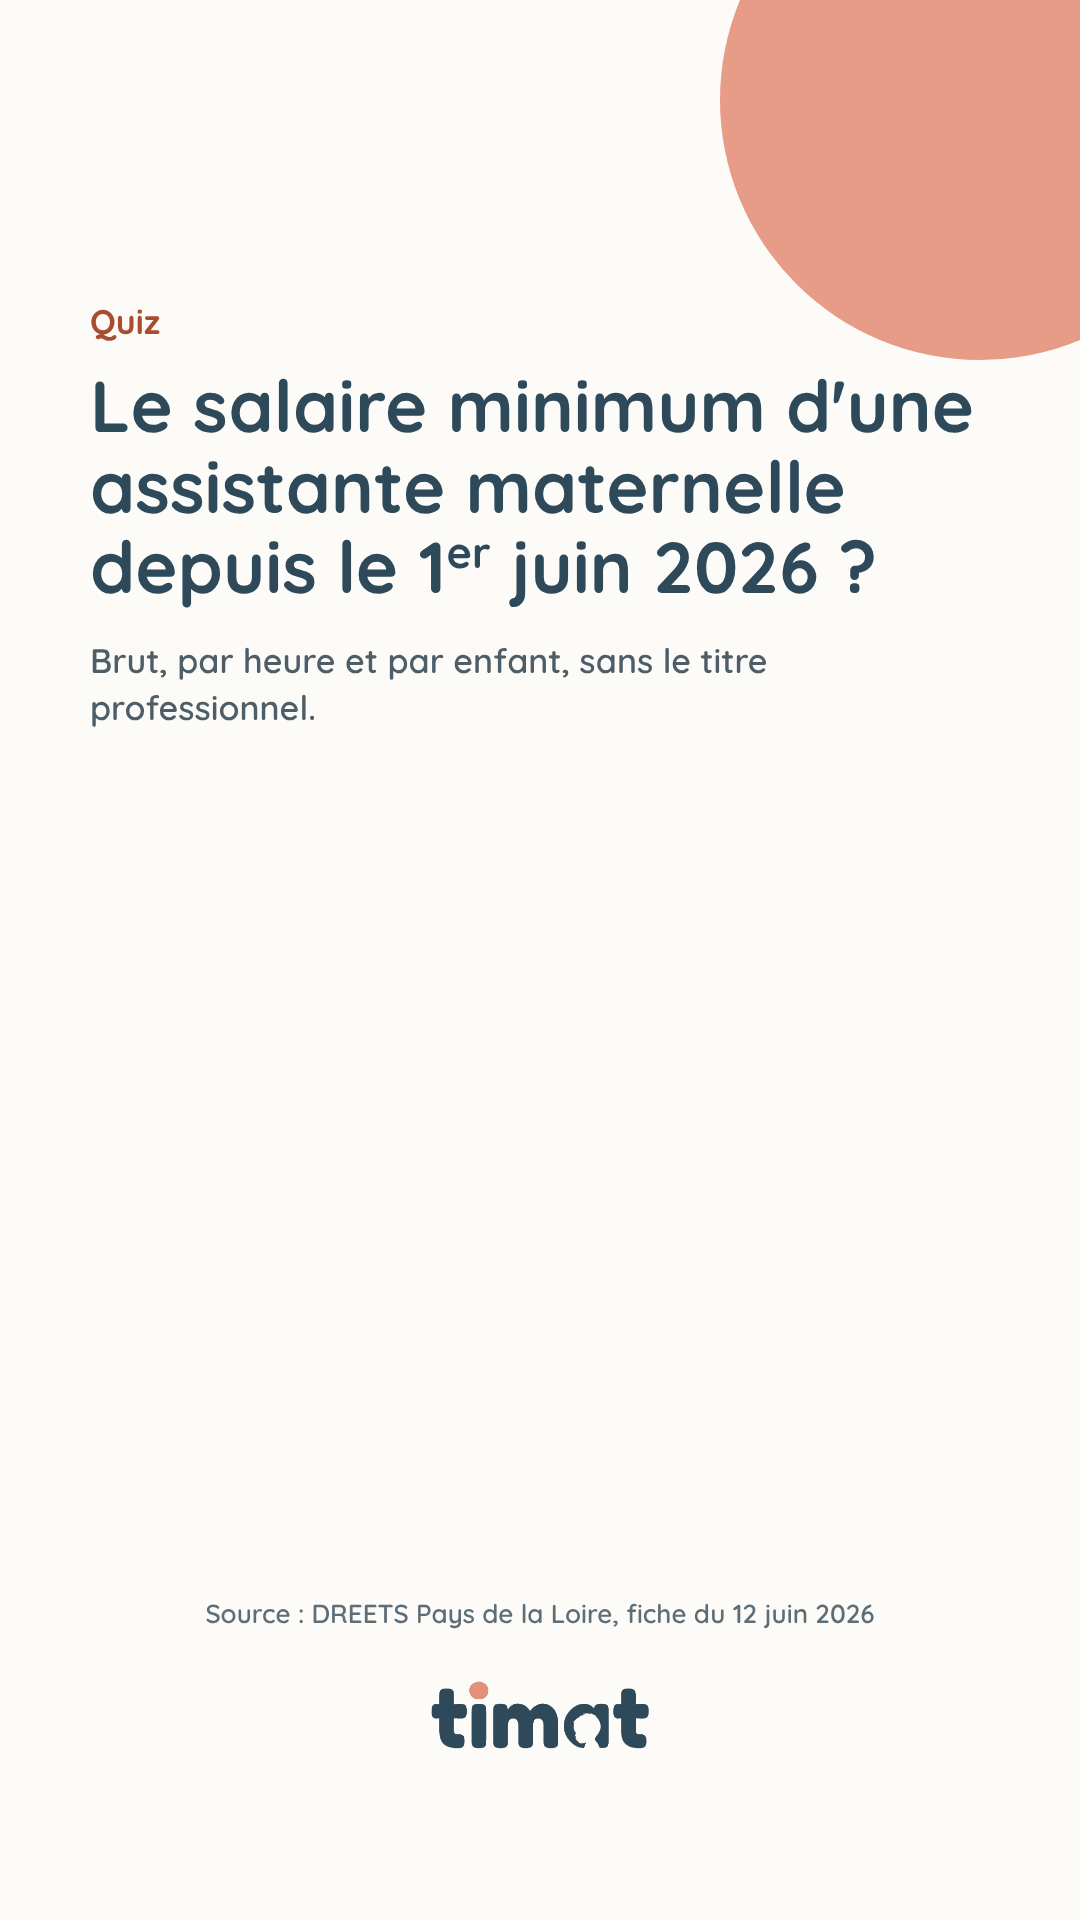
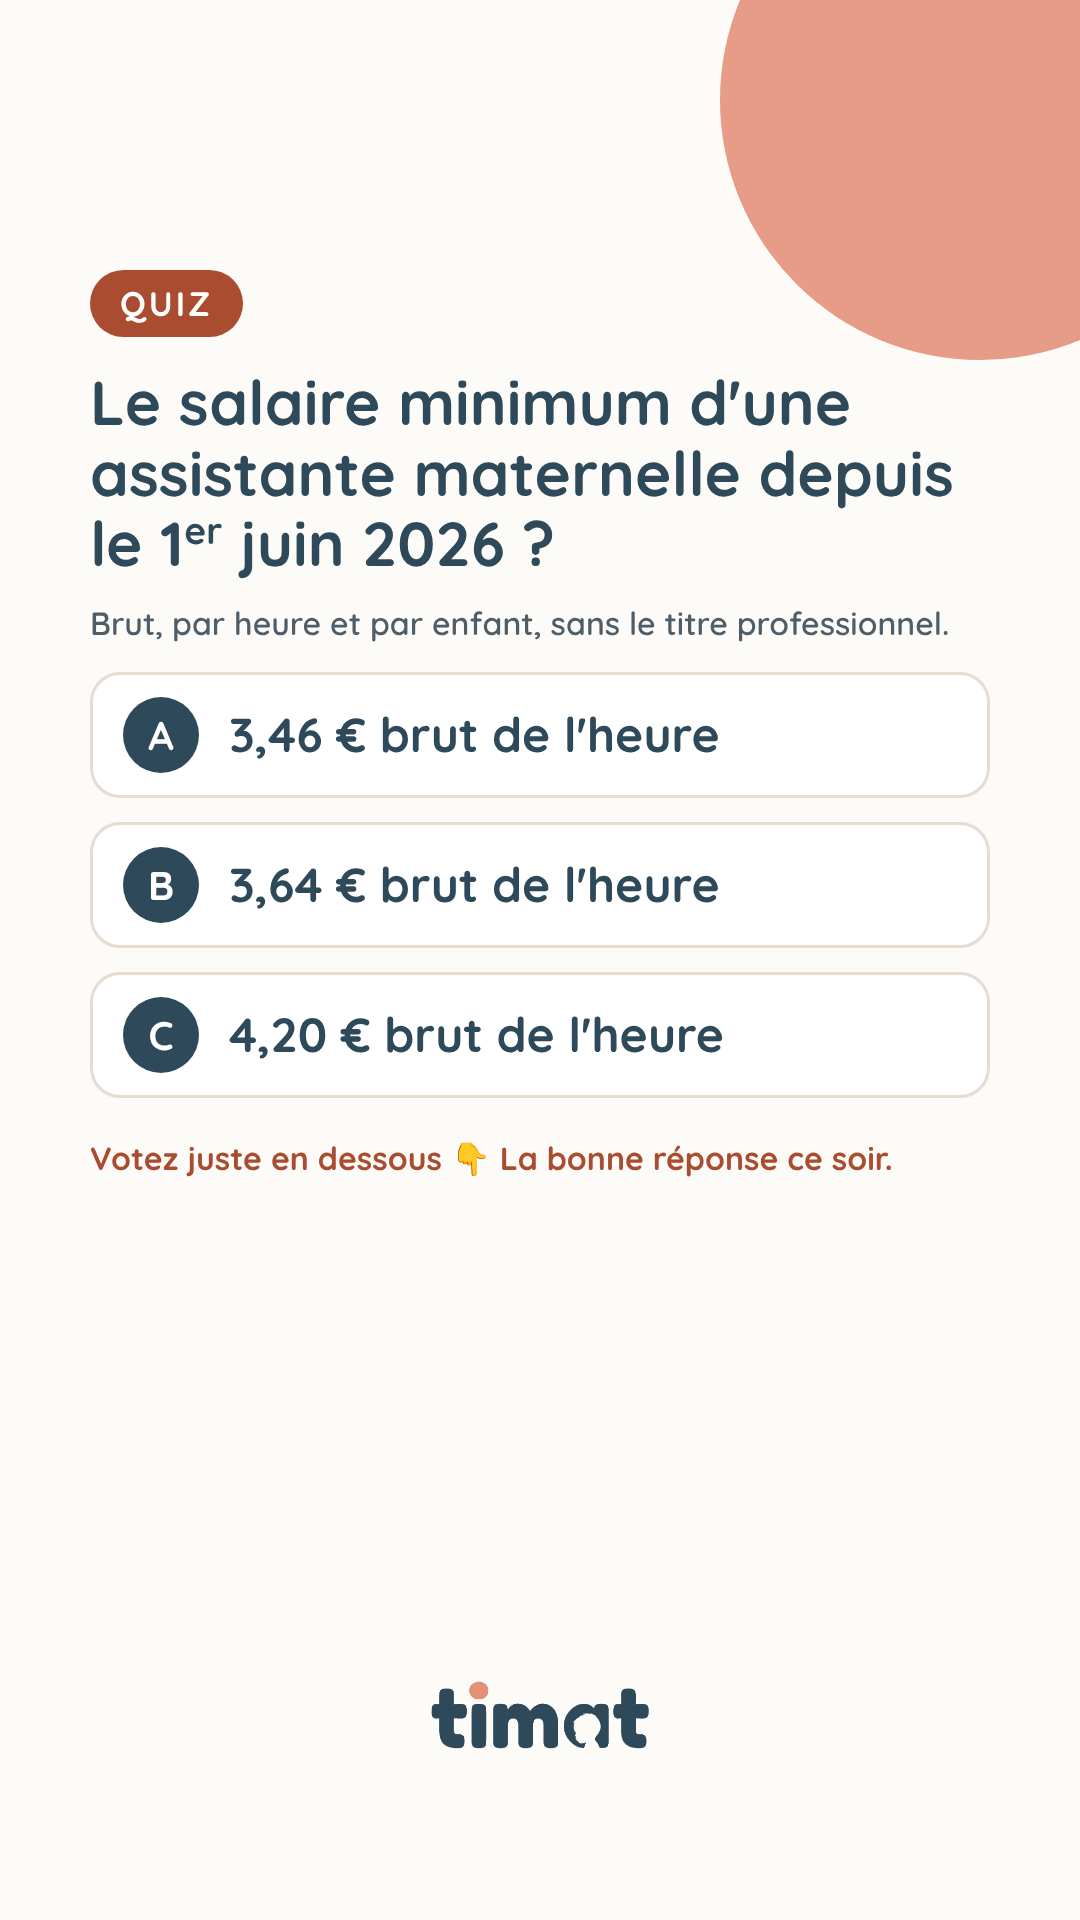
Familiarisation, quiz avec la bonne réponse en vert, passation (#294)
La puéricultrice de PMI a dit à Sophie que l'on parle désormais de période
de familiarisation. C'est exact : le référentiel national de la qualité
d'accueil du jeune enfant (avril 2025, p. 16-17) préfère ce mot, refuse le
protocole rigide et la présence progressive « 1 heure puis un repas ».
- Projet d'accueil imprimé : « Période de familiarisation », sans le
  protocole « Jour 1 : 1 h avec le parent… » qu'il proposait.
- Contrat imprimé : la convention garde « période d'adaptation »
  (art. 94), la clause dit « dite aussi période de familiarisation » et ne
  calcule plus le salaire « sur les heures réellement effectuées » : les
  heures non faites se déduisent du salaire mensualisé (art. 108.1 et 111,
  DREETS BFC fiche 1). DOCUMENTS_REFONTE et l'empreinte avancent ensemble.
- Barrière d'audit sur les deux textes, prouvée en cassant le code.

Stories : le compte de Sophie n'a pas l'autocollant Quiz et elle veut
« comme un quiz avec la bonne réponse en vert ». Les images 27, 29, 40, 42
dessinent les réponses A, B, C ; les réponses du soir (55 à 58, 58 nouvelle
pour le préavis) montrent la bonne en vert avec une coche. Kit à jour.

Passation : indexations faites, commentaire G7 posté, stories programmées
jusqu'au 6/11 (Meta refuse au-delà en version gratuite), brouillons Sanity
en attente d'accord. Règles ajoutées à CLAUDE.md.

Claude-Session: https://claude.ai/code/session_01JVfHnHqQqeEKwpYvot8sHP

diff --git a/src/App.jsx b/src/App.jsx
@@ -2731,7 +2731,7 @@ function AccueilParent({enfant,setPage,user}){
 export const BILANS={
   "e1":[
     "Ce matin, Léo est arrivé les yeux encore un peu lourds de sommeil, mais le sourire n'a pas tardé à illuminer son visage. Nous avons commencé la journée en douceur avec quelques livres imagiers, et très vite son entrain habituel est revenu. L'activité peinture de l'après-midi a été un vrai moment de magie - il a trempé ses petits doigts dans le rouge et le jaune avec une concentration et une fierté visibles.\n\nLe repas de midi s'est très bien passé : Léo a tout mangé sans hésitation, ce qui est toujours un plaisir à observer. Sa sieste a duré 1h30, un sommeil profond et réparateur. Au réveil, il était de nouveau rayonnant, prêt à profiter du goûter et des jeux du soir.\n\nEn fin de journée, j'ai remarqué comme Léo cherche de plus en plus à communiquer avec les mots - il pointe, nomme, demande. C'est un plaisir de l'accompagner dans cet éveil du langage. Bonne soirée à vous !",
-    "La journée de Léo a débuté sur une note douce et apaisée. Il est entré dans la maison en tenant fermement son doudou, signe qu'une petite période d'adaptation était nécessaire ce matin. Mais en quelques minutes, il s'est élancé vers les jouets avec son enthousiasme caractéristique.\n\nNous avons beaucoup joué dehors avant le déjeuner - Léo adore observer les fourmis et les feuilles qui tombent. Son repas a été excellent, et sa sieste longue et paisible. L'après-midi, nous avons planté des radis ensemble : il a tenu la petite graine avec soin et l'a déposée dans la terre avec une attention touchante.\n\nLéo est un enfant curieux et plein de vie. Chaque journée avec lui est une nouvelle aventure. Je suis fière des progrès qu'il fait semaine après semaine. À demain !",
+    "La journée de Léo a débuté sur une note douce et apaisée. Il est entré dans la maison en tenant fermement son doudou, signe qu'il lui fallait un petit temps de transition ce matin. Mais en quelques minutes, il s'est élancé vers les jouets avec son enthousiasme caractéristique.\n\nNous avons beaucoup joué dehors avant le déjeuner - Léo adore observer les fourmis et les feuilles qui tombent. Son repas a été excellent, et sa sieste longue et paisible. L'après-midi, nous avons planté des radis ensemble : il a tenu la petite graine avec soin et l'a déposée dans la terre avec une attention touchante.\n\nLéo est un enfant curieux et plein de vie. Chaque journée avec lui est une nouvelle aventure. Je suis fière des progrès qu'il fait semaine après semaine. À demain !",
   ],
   "e2":[
     "Emma a débarqué ce matin avec une énergie débordante et un grand sourire - elle avait visiblement hâte de retrouver ses jouets préférés. Après un câlin rapide, elle s'est installée au coin puzzle avec une belle concentration, finissant un modèle de 12 pièces en moins de dix minutes. Impressionnant !\n\nLe repas a été un peu plus délicat aujourd'hui - Emma avait moins d'appétit que d'habitude, ce qui arrive à tous les enfants. Elle a refusé la sieste mais est restée calme, jouant tranquillement et feuilletant des livres dans son coin doux. Ce moment de repos calme lui a été bénéfique.\n\nEn fin d'après-midi, nous avons fait de la musique avec des instruments de percussion maison. Emma chante de plus en plus juste et son sens du rythme est remarquable pour son âge. C'est un vrai plaisir de l'observer s'épanouir. Belle soirée à vous !",
@@ -3870,7 +3870,7 @@ export const URL_CONVENTION="https://www.legifrance.gouv.fr/conv_coll/id/KALICON
 // A METTRE A JOUR A CHAQUE FOIS QUE LE MODELE D'UN DOCUMENT CHANGE. Une
 // barriere d'audit le verifie : elle garde l'empreinte du modele de contrat et
 // refuse que le modele bouge sans que cette date bouge.
-export const DOCUMENTS_REFONTE="2026-10-26T12:24:40Z";
+export const DOCUMENTS_REFONTE="2026-10-27T12:25:33Z";
 // Le PDF est perime s'il a ete ecrit AVANT la derniere modification du contrat,
 // ou avant la refonte des documents. La premiere comparaison est la vraie :
 // sans elle, une fois le fichier refait le bouton disparaissait pour de bon, et
@@ -3983,7 +3983,7 @@ const jsPDF=await chargerJsPDF();
     R.champ("Premier jour d'accueil",ct.debut?fmtDatePdf(ct.debut):"-");
     R.champ("Durée de la période d'essai",nbJours>0?essaiMois+" mois":A_COMPLETER);
     R.texte("La période d'essai est de deux mois lorsque l'enfant est confié quatre jours calendaires ou plus par semaine, et de trois mois en deçà (convention collective IDCC 3239). Elle court à compter du premier jour d'accueil. Pendant cette période, chacune des parties peut rompre le contrat par écrit, sans motif ni indemnité ; la convention n'impose aucun délai de prévenance.",{taille:8.5});
-    R.texte("Une période d'adaptation de 30 jours calendaires au maximum, destinée à familiariser progressivement l'enfant à son nouveau mode d'accueil, s'ouvre au premier jour de travail effectif. Elle est comprise dans la période d'essai. Ses modalités (jours et horaires progressifs) sont convenues entre les parties ; le salaire y est calculé sur les heures réellement effectuées.",{taille:8.5});
+    R.texte("Une période d'adaptation, dite aussi période de familiarisation, de 30 jours calendaires au maximum, permet à l'enfant, à ses parents et à l'assistante maternelle de faire connaissance. Elle s'ouvre au premier jour de travail effectif et est comprise dans la période d'essai. Ses modalités et les horaires de travail correspondants sont fixés par écrit entre les parties, en fonction des besoins de l'enfant. Les heures non effectuées pendant cette période sont déduites du salaire mensualisé selon la convention collective (articles 108.1 et 111).",{taille:8.5});
 
     R.article(4,"DURÉE ET HORAIRES DE L'ACCUEIL");
     R.champ("Jours d'accueil",jours.length?jours.join(", "):"-");

diff --git a/src/ecrans-secondaires.jsx b/src/ecrans-secondaires.jsx
@@ -1821,14 +1821,10 @@ export function ProjetAccueil({user,role}){
       "<div class='sh'>09  Partenariat avec les parents</div>",
       "<ul><li>Transmissions quotidiennes : repas, sommeil, activités, humeur</li><li>Disponible pour les questions, joignable en cas d'urgence</li><li>Respect mutuel des choix éducatifs</li></ul>",
       f.communicationPerso?"<p>"+f.communicationPerso.replace(/\n/g,"<br/>")+"</p>":"",
-      "<div class='sh'>10  Période d'adaptation</div>",
-      "<p>L'adaptation dure généralement 1 à 2 semaines.</p>",
-      "<table>",
-      "<tr><td style='background:#F0FAF4;padding:8px 14px;font-weight:700;color:#5DA9A1;width:140px;border:1px solid #e0e0e0'>Jour 1</td><td style='padding:8px 14px;border:1px solid #e0e0e0'>1h avec le parent présent</td></tr>",
-      "<tr><td style='background:#F0FAF4;padding:8px 14px;font-weight:700;color:#5DA9A1;width:140px;border:1px solid #e0e0e0'>Jour 2-3</td><td style='padding:8px 14px;border:1px solid #e0e0e0'>1h sans le parent, séparation courte</td></tr>",
-      "<tr><td style='background:#F0FAF4;padding:8px 14px;font-weight:700;color:#5DA9A1;width:140px;border:1px solid #e0e0e0'>Jour 4-5</td><td style='padding:8px 14px;border:1px solid #e0e0e0'>2-3h, premier repas</td></tr>",
-      "<tr><td style='background:#F0FAF4;padding:8px 14px;font-weight:700;color:#5DA9A1;width:140px;border:1px solid #e0e0e0'>Semaine 2</td><td style='padding:8px 14px;border:1px solid #e0e0e0'>Demi-journées puis journées complètes</td></tr>",
-      "</table>",
+      "<div class='sh'>10  Période de familiarisation</div>",
+      "<p>La familiarisation (appelée « période d'adaptation » dans la convention collective) est le temps où votre enfant, vous et moi faisons connaissance. Elle n'a pas de programme fixé à l'avance : elle s'ajuste à votre enfant, à vous et à vos contraintes.</p>",
+      "<ul><li>Vous restez avec votre enfant plusieurs heures, sur plusieurs jours : vous me montrez ses habitudes, je vous montre comment se passent nos journées</li><li>Nous répétons des moments semblables (même lieu, même moment de la journée) plutôt que d'allonger la durée un peu plus chaque jour</li><li>Les premières séparations viennent quand votre enfant et vous êtes prêts</li><li>Nous construisons ensemble son projet d'accueil personnalisé</li><li>Au contrat : 30 jours calendaires au maximum, avec les horaires convenus par écrit</li></ul>",
+      "<p style='font-size:11px;color:#888'>Repères : référentiel national de la qualité d'accueil du jeune enfant (avril 2025) ; convention collective IDCC 3239, article 94.</p>",
       "<div class='sh'>Pour conclure</div>",
       "<p>Ce projet d'accueil est un document vivant. N'hésitez pas à en discuter avec moi à tout moment.</p>",
       f.conclusion?"<p>"+f.conclusion.replace(/\n/g,"<br/>")+"</p>":"",

diff --git a/index.html b/index.html
@@ -182,7 +182,7 @@
         <p>Le salaire minimum, la mensualisation, les congés, la déclaration Pajemploi : les réponses aux questions qui reviennent.</p>
 
         <h2>Ressources pour les assmats</h2>
-        <p>86 guides pratiques gratuits, chacun adossé à ses sources officielles, et des simulateurs sans inscription.</p>
+        <p>87 guides pratiques gratuits, chacun adossé à ses sources officielles, et des simulateurs sans inscription.</p>
 
         <nav aria-label="Ressources">
           <ul>

diff --git a/docs/passation-2026-10-13.md b/docs/passation-2026-10-13.md
@@ -621,9 +621,9 @@ l'écran Fin de contrat.
 - **Indexation du 27/10** : liste de 10 envoyée (toutes en 200), en tête
   d'un long message. Sophie a d'abord écrit « J'ai fait l'indexation jusqu'au
   numéro 10 », puis a RECTIFIÉ : elle ne l'avait pas faite, la liste lui
-  ayant échappé. Liste redonnée seule, en premier, le 27/10 au matin ; ce
-  qu'elle aura fait : à noter ici. Leçon : la liste d'indexation se donne
-  dans un message à part, en premier.
+  ayant échappé. Liste redonnée seule, en premier, le 27/10 au matin :
+  **les 10 indexations sont FAITES** (Sophie, 27/10 après-midi). Leçon : la
+  liste d'indexation se donne dans un message à part, en premier.
 - **Stories refaites le 27/10** à la demande de Sophie (« il y a un espace au
   milieu, qu'est-ce que je dois mettre ? J'aimerais juste repartager les
   publications ») : les images 43 à 54 montrent désormais la publication du
@@ -648,6 +648,59 @@ l'écran Fin de contrat.
   27/11). Règle copiée dans CLAUDE.md.
 - Couverture du brouillon `recu-solde-de-tout-compte-assistante-maternelle` :
   importée dans Sanity et posée (FAIT le 27/10).
+- **G7** : commentaire posté par Sophie sous le sondage du groupe (27/10).
+- **Stories programmées par Sophie** dans Meta Business Suite jusqu'au
+  **6/11 à 20 h 35** ; au-delà, Meta refuse la date. Pas de chiffre officiel
+  trouvé pour la version gratuite ; ce qui est officiel : depuis septembre
+  2026, l'abonnement payant Meta One (offre Advanced, à partir de 49,99 $
+  par mois) vend la programmation des stories jusqu'à 30 jours à l'avance
+  (annonce Meta, about.fb.com, septembre 2026 — page non ouvrable depuis la
+  session, lue par extrait de recherche). Constat : environ 10 jours en
+  gratuit. On ne paie pas : on programme par tranches. Rappel du **1/11**
+  (`trig_016Ufx8g9ArFdo5gaqSmDnv5`) : renvoie les stories 48 à 54 avec les
+  étapes ; Sophie programme jusqu'à la première date refusée et donne la
+  dernière date acceptée ; le rappel suivant se pose 5 jours avant.
+- **Quiz « comme un quiz, bonne réponse en vert »** (Sophie, 27/10) : les
+  images 27, 29, 40, 42 montrent la question et les réponses A, B, C ;
+  autocollant Sondage « A / B / C » sous « Votez juste en dessous » ; le
+  soir, images 55 à 58 (58 = préavis, nouvelle) : même question, bonne
+  réponse en vert avec coche, autres estompées, explication et source.
+  Fonctions `quiz` et `quizReponse` de `generer-visuels.mjs`. Chiffres
+  revérifiés (DREETS BFC juin 2026 : préavis 8 j / 15 j / 1 mois ; 2,5 jours
+  ouvrables par mois). Rappel quotidien `trig_019T4fYCSVA7h4risE2danFL`
+  réécrit en conséquence (les deux images à la fin du message).
+- **Familiarisation** (Sophie, 27/10, dit par la puéricultrice de PMI) :
+  confirmé par le référentiel national de la qualité d'accueil du jeune
+  enfant (avril 2025, publié le 2/07/2025, p. 16-17) : « La notion de
+  familiarisation est préférée à celle d'adaptation » ; il refuse le
+  protocole rigide et la présence progressive « 1 heure puis un repas »,
+  préfère une présence parentale prolongée et des moments répétés. La
+  convention collective garde « période d'adaptation » (art. 94 : « peut
+  être comprise dans l'éventuelle période d'essai », 30 jours calendaires
+  au plus, horaires fixés au contrat, heures non faites déduites du salaire
+  mensualisé, art. 108.1 et 111 ; DREETS BFC fiche 1). Fait :
+  - projet d'accueil imprimé (`ecrans-secondaires.jsx`) : « Période de
+    familiarisation », sans le protocole « Jour 1 : 1 h avec le parent… » ;
+  - contrat imprimé : « période d'adaptation, dite aussi période de
+    familiarisation », salaire par déduction des heures non faites (il
+    disait « calculé sur les heures réellement effectuées ») ;
+    `DOCUMENTS_REFONTE` = 2026-10-27T12:25:33Z, empreinte c3d7ecb1d15310d4 ;
+  - barrière d'audit (projet d'accueil + clause), prouvée en cassant le code ;
+  - kit : publication 17 (23/11, période d'essai) avec la familiarisation et
+    le référentiel en source. **Le texte programmé dans Metricool n'est PAS
+    modifié** : demander l'accord de Sophie avant.
+  - **5 brouillons Sanity, à publier sur accord écrit** :
+    `periode-adaptation-assistante-maternelle-parent` (titre, section
+    « Adaptation ou familiarisation », méthode du référentiel, FAQ, 2
+    sources) ; `periode-adaptation-essai-assistante-maternelle` ; ces deux
+    articles affirmaient à tort que l'adaptation est « toujours » dans
+    l'essai (« il ne peut pas y avoir d'adaptation sans période d'essai ») ;
+    `quand-chercher-mode-de-garde`, `budget-mensuel-parent-employeur-…`
+    (« facturées à l'heure réelle » corrigé), `vaccins-obligatoires-…`
+    (vocabulaire). Adresses (slugs) inchangées : déjà indexées.
+  - Concurrents : Nounou-Top, 62 actualités, aucune sur le sujet ;
+    Pandi-Panda, AssmatZen, Mam360 injoignables depuis la session, rien
+    trouvé par recherche. La CAF (caf.fr) écrit encore « adaptation ».
 - **À vérifier** : le titre « Assistant maternel / Garde d'enfants »
   (RNCP 37795) n'est plus enregistré depuis le 19/07/2026, remplacé par
   « Assistant maternel - Assistant parental » (RNCP 42319, France
@@ -705,6 +758,9 @@ l'écran Fin de contrat.
   (Sophie préfère attendre pour la MAM).
 
 **Claude, à la prochaine session**
+- Publier les 5 brouillons « familiarisation » dès l'accord écrit de
+  Sophie ; mettre à jour le texte de la publication du 23/11 dans Metricool
+  si elle est d'accord.
 - Publier la correction de `projet-accueil-assistante-maternelle` dès
   l'accord écrit de Sophie.
 - La file de publication se vide après le 8 novembre : écrire d'autres

diff --git a/CLAUDE.md b/CLAUDE.md
@@ -36,8 +36,12 @@ et l'historique git font le lien. Donc :
   jour ») ; les stories à programmer dans Meta Business Suite lui sont
   envoyées 5 jours avant la fin de la série programmée en cours. Toujours
   des étapes très explicites, et les images À LA FIN du message, jamais au
-  milieu. Son compte Instagram n'a pas l'autocollant « Quiz » : sondage,
-  puis une story « Réponse ».
+  milieu. Son compte Instagram n'a pas l'autocollant « Quiz » : image quiz
+  avec les réponses A/B/C + autocollant Sondage, puis le soir une story
+  « Réponse » avec la bonne réponse en vert.
+- Vocabulaire : « période de familiarisation » (référentiel national de la
+  qualité d'accueil, 2025, employé par la PMI) ; au contrat, le terme reste
+  « période d'adaptation » (convention collective, art. 94).
 - Répondre en français.
 
 ## Méthode de travail
